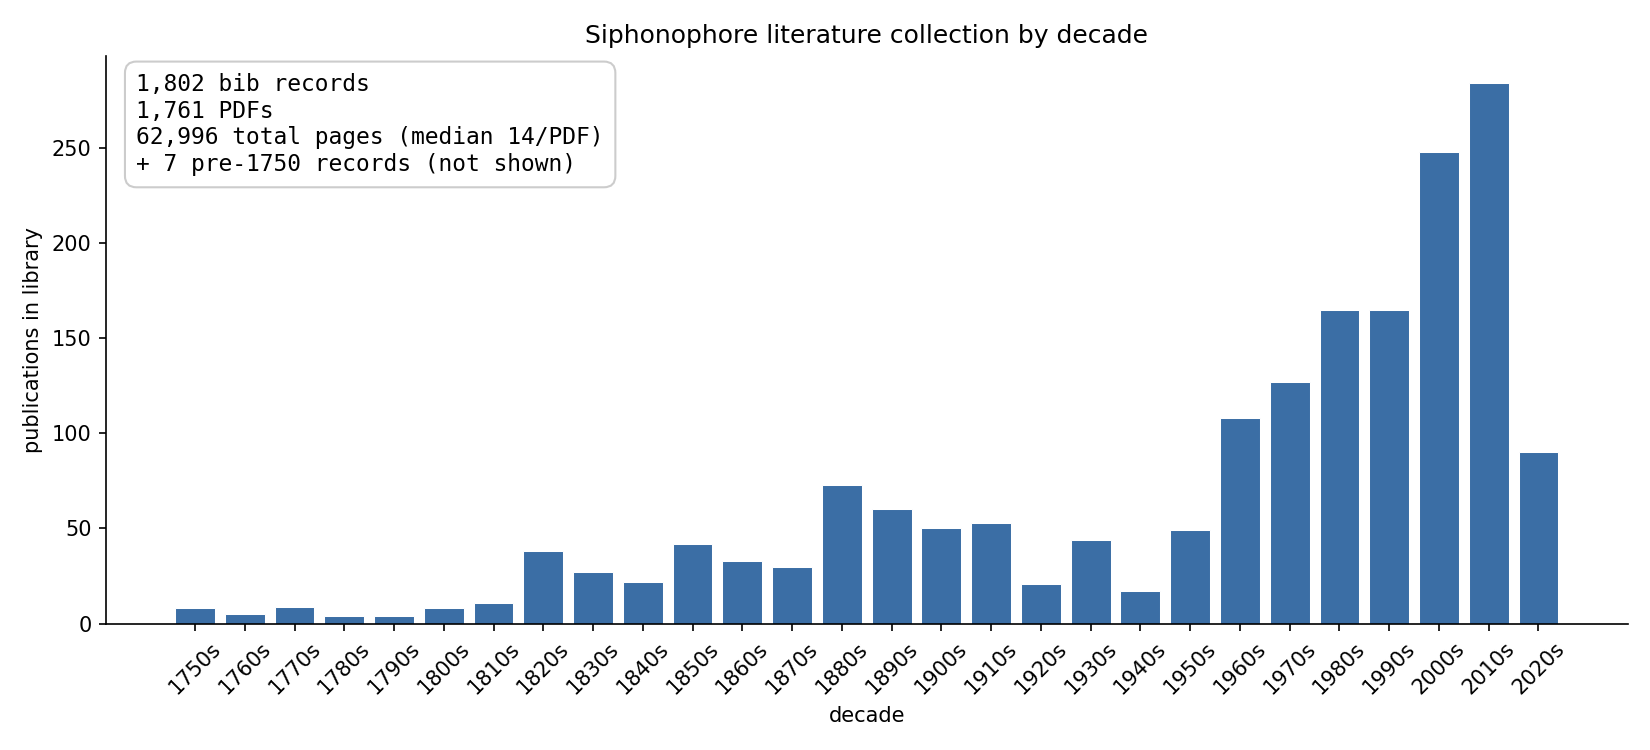
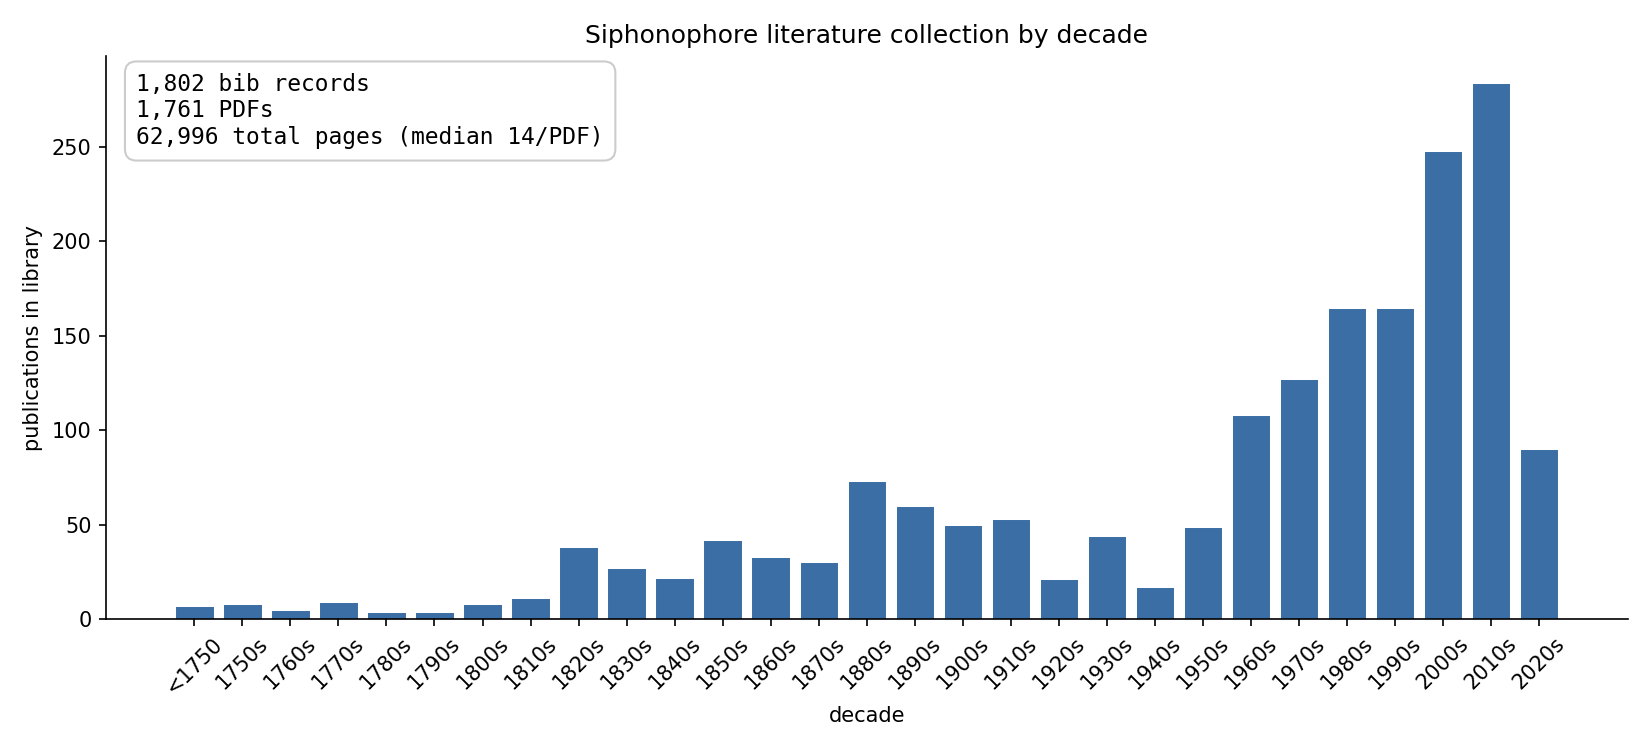
histogram: add <1750 bar instead of overlay note

diff --git a/scripts/validate_bib.py b/scripts/validate_bib.py
@@ -137,14 +137,19 @@ def render_histogram_png(
     headline: dict[str, int],
     out_path: Path,
 ) -> None:
-    """Render the decade histogram (1750+) with a stat overlay."""
+    """Render the decade histogram (1750+ plus a pre-1750 bin) with a stat overlay."""
     import matplotlib
     matplotlib.use("Agg")
     import matplotlib.pyplot as plt
 
     decades = sorted(decade_records.keys())
-    counts = [decade_records[d] for d in decades]
-    labels = [f"{d}s" for d in decades]
+    labels: list[str] = []
+    counts: list[int] = []
+    if pre_1750_records:
+        labels.append("<1750")
+        counts.append(pre_1750_records)
+    labels.extend(f"{d}s" for d in decades)
+    counts.extend(decade_records[d] for d in decades)
 
     fig, ax = plt.subplots(figsize=(11, 5))
     ax.bar(labels, counts, color="#3b6ea5", edgecolor="white", linewidth=0.5)
@@ -161,8 +166,6 @@ def render_histogram_png(
         f"{headline['total_pages']:,} total pages "
         f"(median {headline['median_pages']}/PDF)"
     )
-    if pre_1750_records:
-        overlay += f"\n+ {pre_1750_records} pre-1750 records (not shown)"
     ax.text(
         0.02, 0.97, overlay,
         transform=ax.transAxes, va="top", ha="left",
